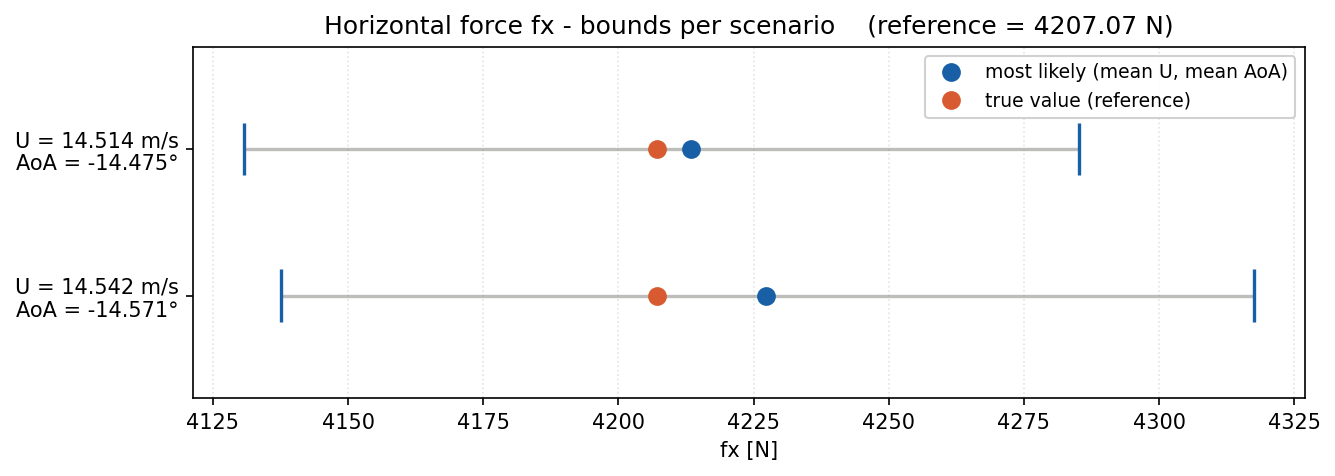
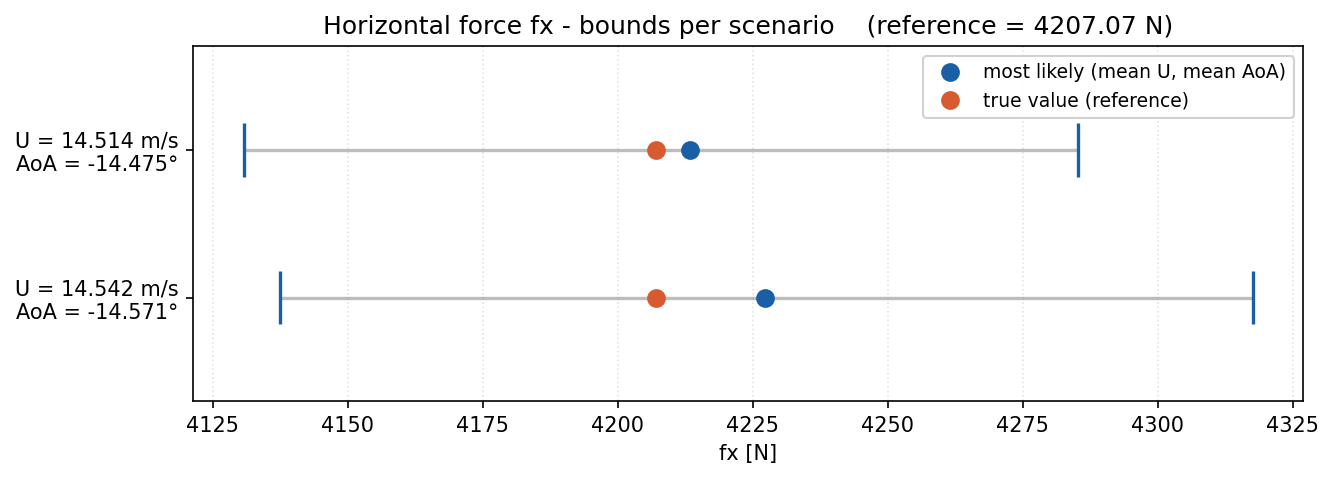
updated folder naming

diff --git a/main.py b/main.py
@@ -123,9 +123,9 @@ def main(X_positions, X_ensemble, U_inlet_lst, alpha_lst, truth_U_inlet, truth_a
         fig3 = plot_error_field(X_positions, Xinitial_mean_mags, X_mean_mags, drone_xy)
 
         # plt.show()
-        fig.savefig(f'results/U={truth_U_inlet}_a={truth_alpha}/truth-initial-final_U={truth_U_inlet}_a={truth_alpha}.png')
-        fig2.savefig(f'results/U={truth_U_inlet}_a={truth_alpha}/boxplot_U={truth_U_inlet}_a={truth_alpha}.png')
-        fig3.savefig(f'results/U={truth_U_inlet}_a={truth_alpha}/ENKF-change_U={truth_U_inlet}_a={truth_alpha}.png')
+        fig.savefig(f'results/U={truth_U_inlet}_a={truth_alpha}_{point_distribution.upper()}/truth-initial-final_U={truth_U_inlet}_a={truth_alpha}.png')
+        fig2.savefig(f'results/U={truth_U_inlet}_a={truth_alpha}_{point_distribution.upper()}/boxplot_U={truth_U_inlet}_a={truth_alpha}.png')
+        fig3.savefig(f'results/U={truth_U_inlet}_a={truth_alpha}_{point_distribution.upper()}/ENKF-change_U={truth_U_inlet}_a={truth_alpha}.png')
         print('Figures are saved.')
     return analysis_inlet.mean(), analysis_inlet.std(), analysis_alpha.mean(), analysis_alpha.std()
     
@@ -274,19 +274,20 @@ if __name__ == "__main__":
     case_folder = 'sim'
     directory = os.path.join(case_folder, 'CORRECTED_simulation_outputs')
     #truths 
-    truth_path = os.path.join(case_folder, 'solution_data_truth11.6.csv')
-    truth_U_inlet, truth_alpha = 11.6, -11.6
-    
+    truth_path = os.path.join(case_folder, 'solution_data_truth14.5.csv')
+    truth_U_inlet, truth_alpha = 14.5, -14.5
+    point_distribution = 'lines'
+    n_samples = 10
     loaded = load_main(directory)
-    # try: 
-    #     os.mkdir(f'results/U={truth_U_inlet}_a={truth_alpha}')
-    # except: 
-    #     pass
-    # run_single(truth_path, truth_U_inlet, truth_alpha, loaded, point_distribution='optimized', n_samples=10)
-    
     try: 
-        os.mkdir(f'results/sensitivity_U={truth_U_inlet}_a={truth_alpha}')
+        os.mkdir(f'results/U={truth_U_inlet}_a={truth_alpha}_{point_distribution.upper()}')
     except: 
         pass
-    run_sensitivity_study(truth_path, truth_U_inlet, truth_alpha, loaded)
+    run_single(truth_path, truth_U_inlet, truth_alpha, loaded, point_distribution=point_distribution, n_samples=n_samples)
+    
+    # try: 
+    #     os.mkdir(f'results/sensitivity_U={truth_U_inlet}_a={truth_alpha}')
+    # except: 
+    #     pass
+    # run_sensitivity_study(truth_path, truth_U_inlet, truth_alpha, loaded)
 
